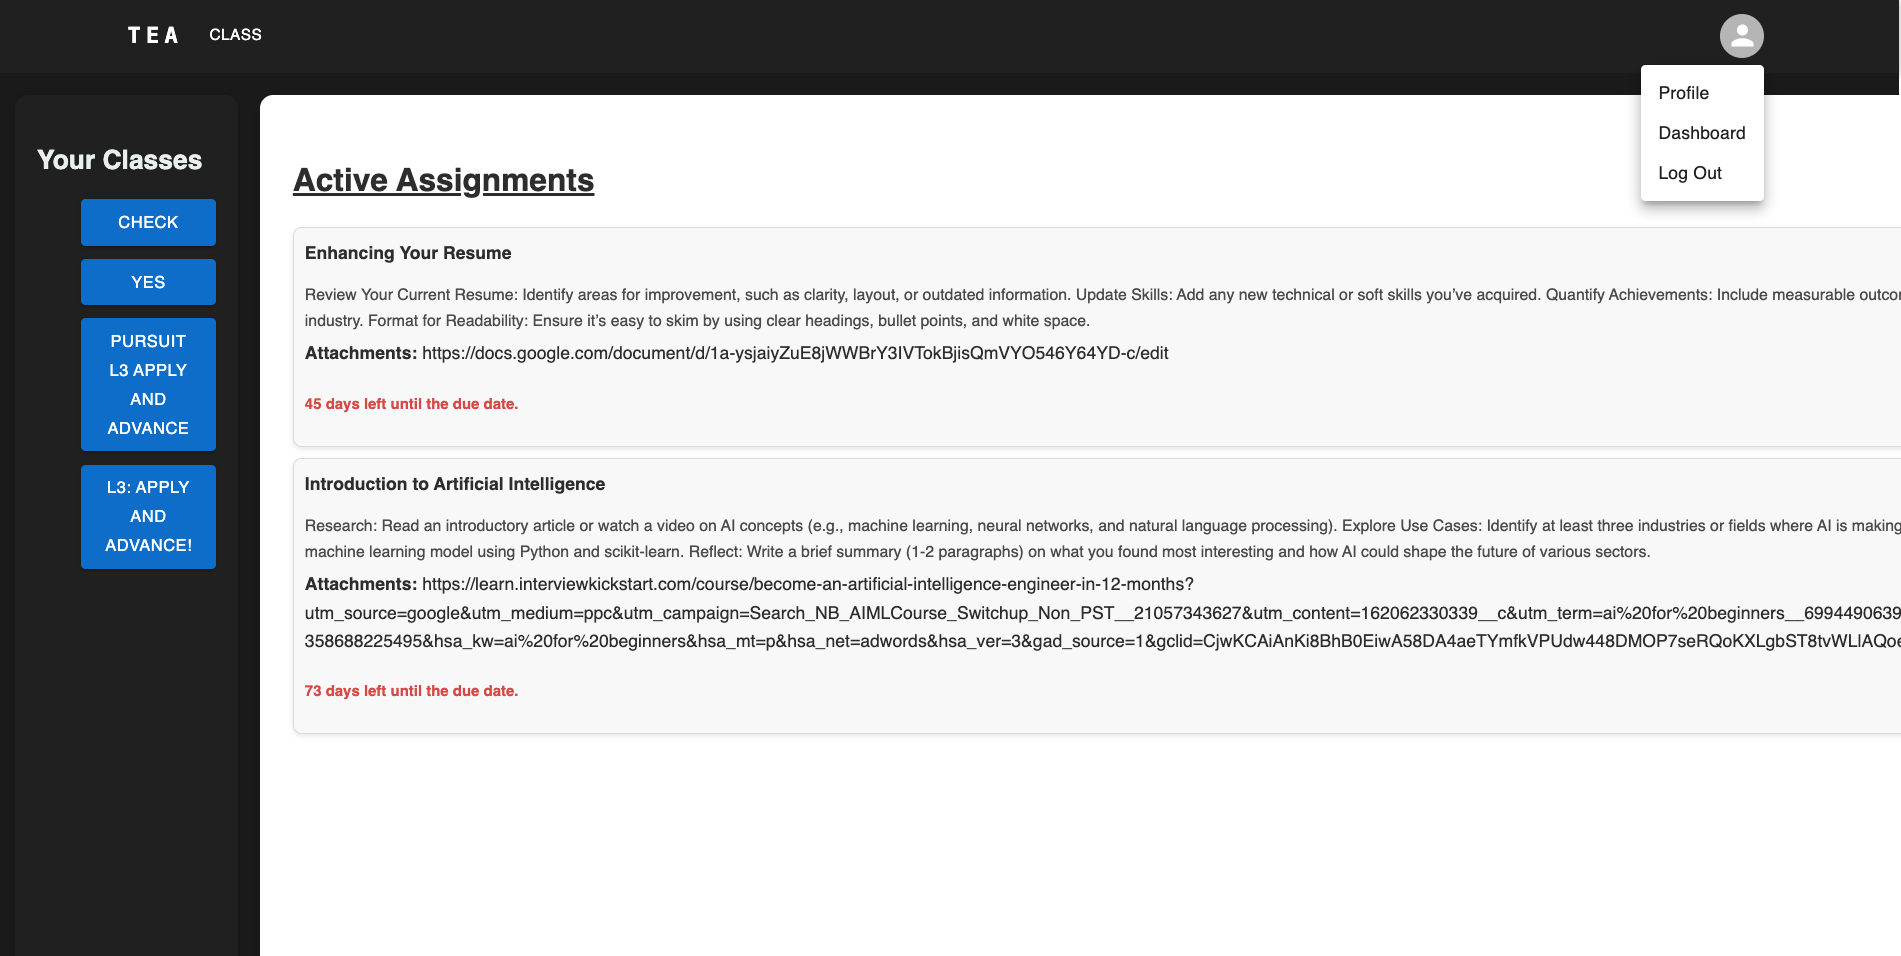
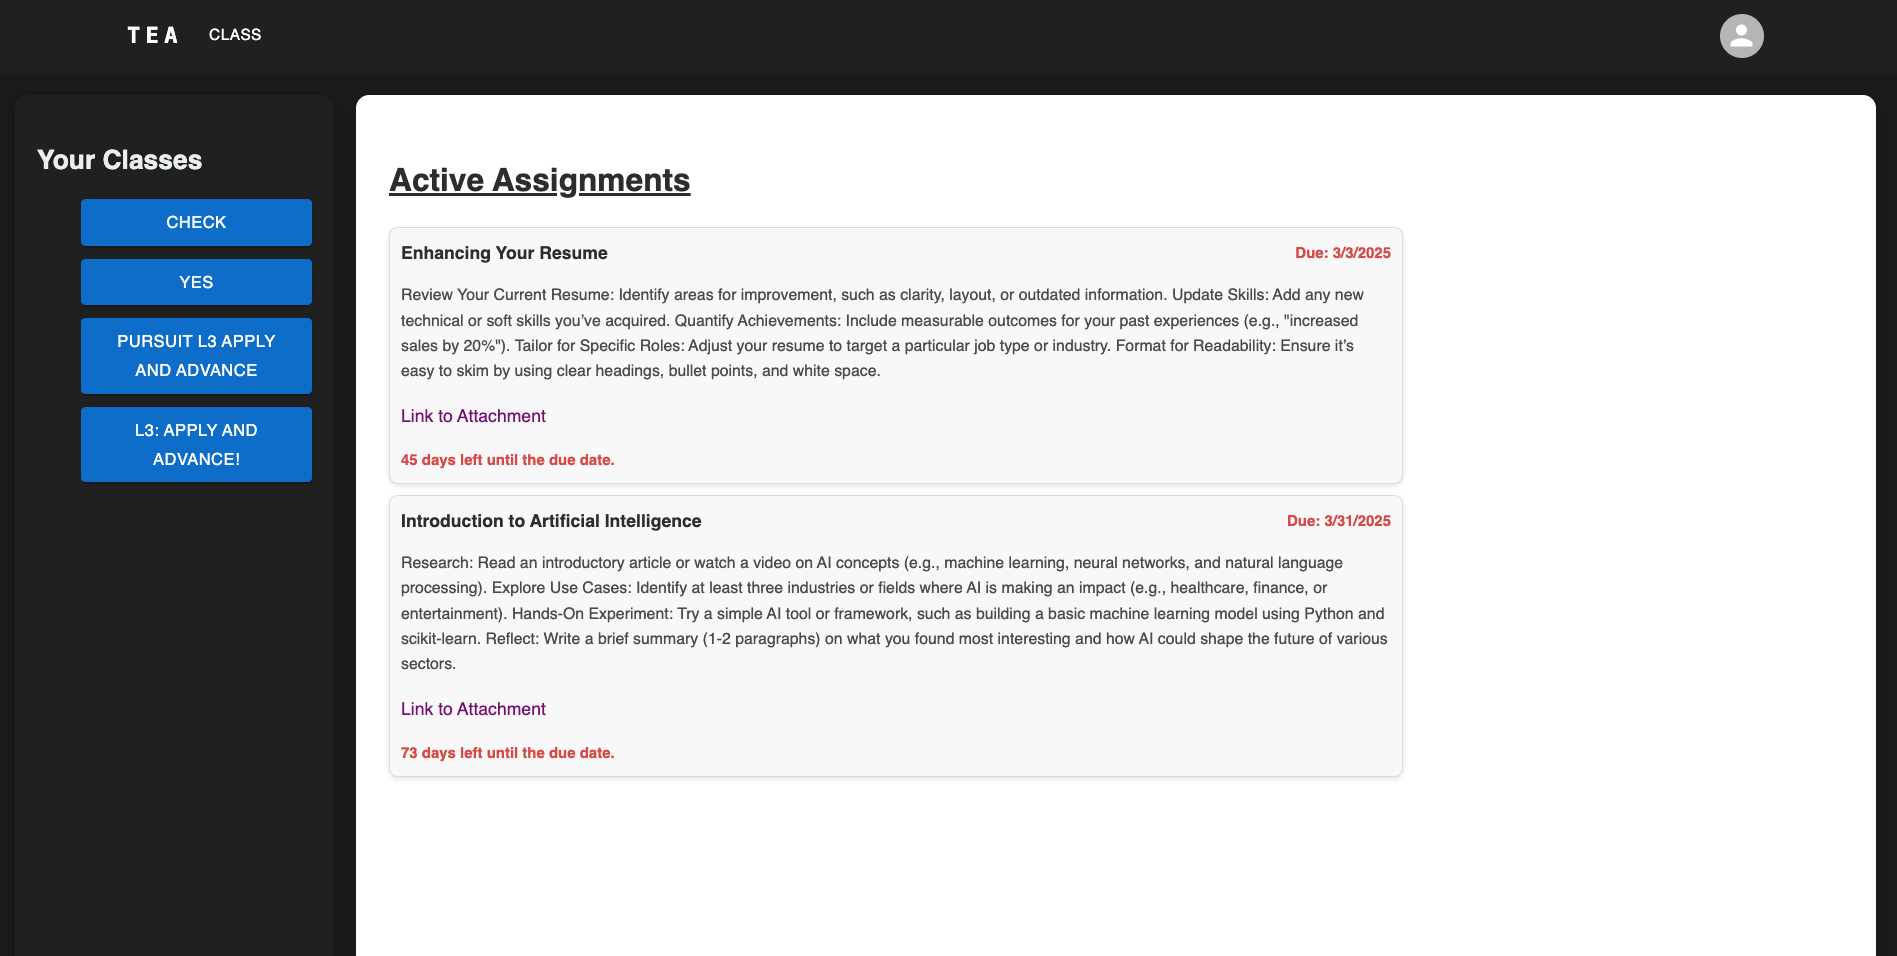
responsive design and img fix

diff --git a/client/src/components/Helper/dashboardHelper.jsx b/client/src/components/Helper/dashboardHelper.jsx
@@ -91,7 +91,6 @@ export const ClassAssignments = ({
 			{activeAssignments.length > 0 && (
 				<h2 style={{ textDecoration: "underline" }}>Active Assignments</h2>
 			)}
-			{isTeacher && <AssignmentDrawer selectedClass={selectedClass} />}
 			<ul className="assignment-list">
 				{activeAssignments.map((assignment) => (
 					<li key={assignment.assignment_id} className="assignment-item">
@@ -103,24 +102,27 @@ export const ClassAssignments = ({
 						</div>
 						<p className="assignment-description">{assignment.description}</p>
 						{assignment.attachments && (
-							<AssignmentAttachments attachments={assignment.attachments} />
+							<p className="assignment-attachments">
+								<a
+									href={assignment.attachments}
+									target="_blank"
+									rel="noopener noreferrer"
+									style={{ color: "purple" }}
+								>
+									Link to Attachment
+								</a>
+							</p>
 						)}
 						<div className="assignment-footer">
 							<span className="due-date">
 								{getStatusMessage(assignment.due_date, currentDate)}
 							</span>
-							{!isTeacher && (
-								<SubmitAssignmentDrawer
-									selectedClass={selectedClass}
-									selectedAssignment={assignment}
-								/>
-							)}
 						</div>
 					</li>
 				))}
 			</ul>
-			{/* late Assignment */}
 
+			{/* Late Assignments */}
 			{lateAssignments.length > 0 && (
 				<h2 style={{ textDecoration: "underline" }}>Late Assignments</h2>
 			)}
@@ -135,18 +137,21 @@ export const ClassAssignments = ({
 						</div>
 						<p className="assignment-description">{assignment.description}</p>
 						{assignment.attachments && (
-							<AssignmentAttachments attachments={assignment.attachments} />
+							<p className="assignment-attachments">
+								<a
+									href={assignment.attachments}
+									target="_blank"
+									rel="noopener noreferrer"
+									style={{ color: "purple" }}
+								>
+									Link to Attachment
+								</a>
+							</p>
 						)}
 						<div className="assignment-footer">
 							<span className="due-date">
 								{getStatusMessage(assignment.due_date, currentDate)}
 							</span>
-							{!isTeacher && (
-								<SubmitAssignmentDrawer
-									selectedClass={selectedClass}
-									selectedAssignment={assignment}
-								/>
-							)}
 						</div>
 					</li>
 				))}

diff --git a/client/src/css/Dashboard.css b/client/src/css/Dashboard.css
@@ -70,6 +70,9 @@
 	padding: 10px;
 	box-shadow: 0px 2px 5px rgba(0, 0, 0, 0.1);
 	transition: box-shadow 0.3s ease;
+	position: relative;
+	width: 100%;
+	max-width: 900px;
 }
 
 .assignment-item:hover {
